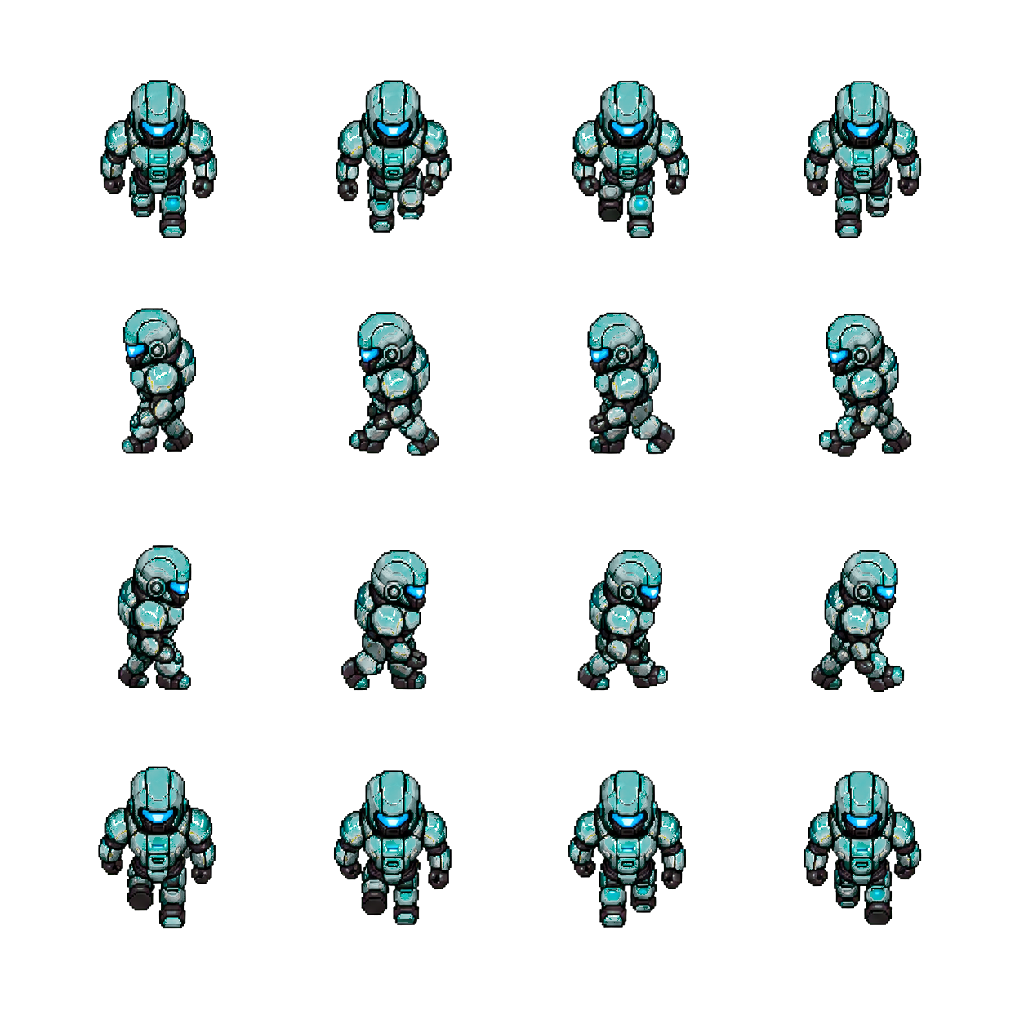
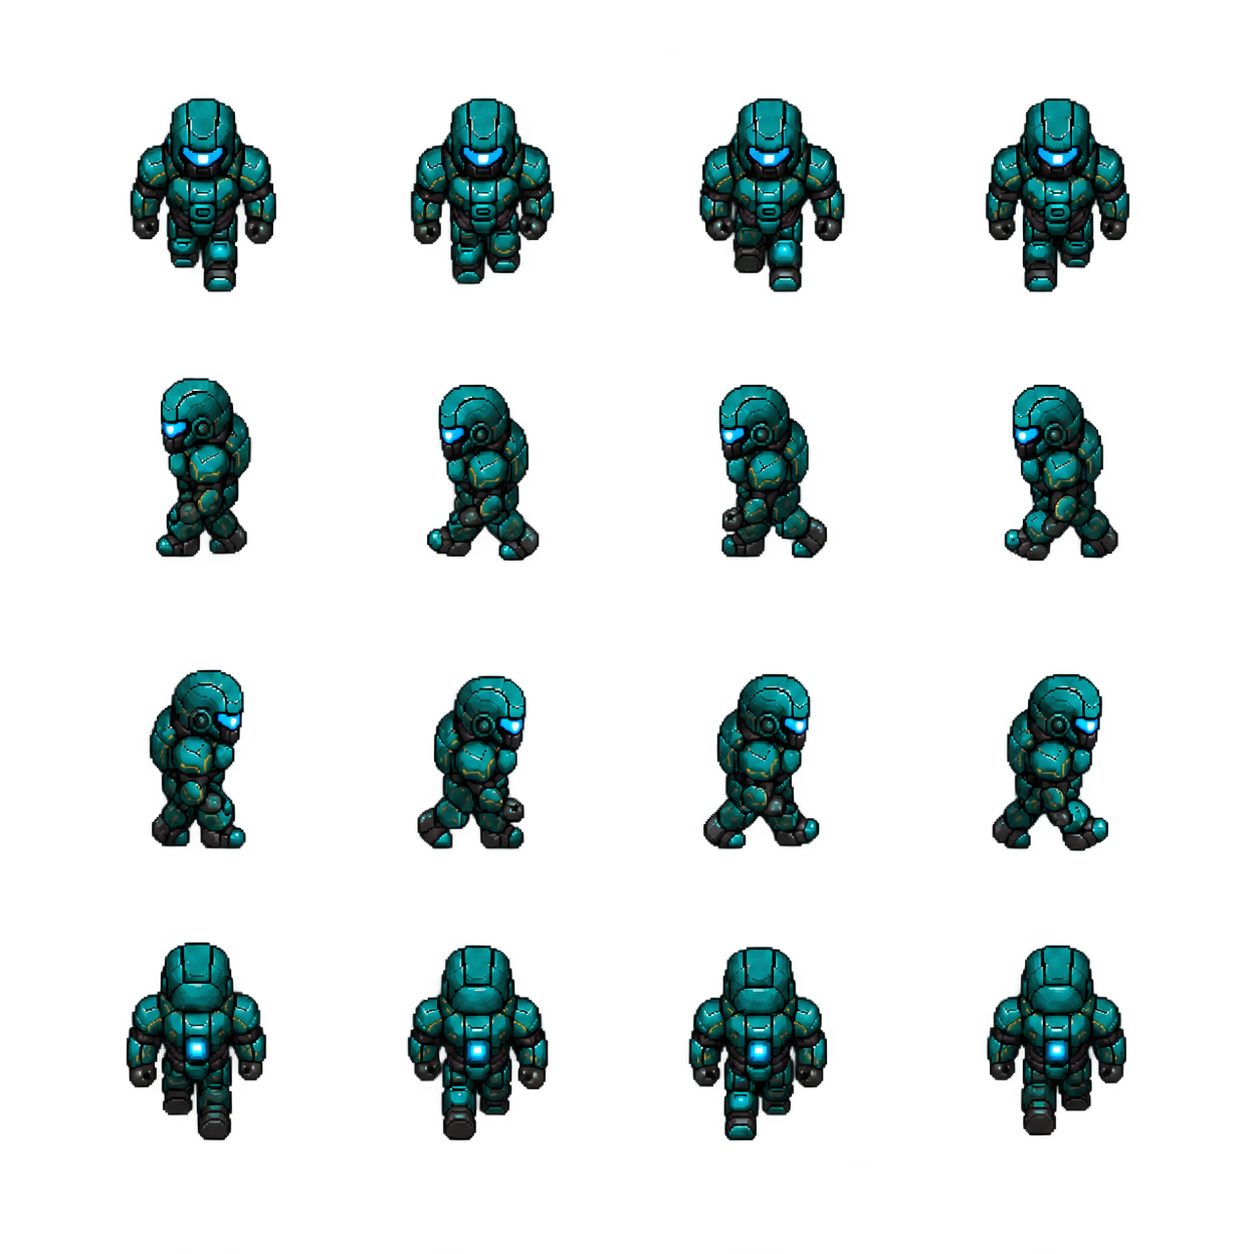
feat: add directional idle animations

diff --git a/frontend/src/features/game/GameCanvas.jsx b/frontend/src/features/game/GameCanvas.jsx
@@ -5,6 +5,10 @@ import playerMeleeAttackSpriteUrl from '../../assets/game/player/player-melee-at
 import playerRangedAttackSpriteUrl from '../../assets/game/player/player-ranged-attack.png';
 import walkingRobotSpriteUrl from '../../assets/game/enemies/walking-robot.png';
 import shootingRobotSpriteUrl from '../../assets/game/enemies/shooting-robot.png';
+import tankRobotIdleSpriteUrl from '../../assets/game/enemies/tank-robot-idle.png';
+import playerIdleSpriteUrl from '../../assets/game/player/player-idle.png';
+import walkingRobotIdleSpriteUrl from '../../assets/game/enemies/walking-robot-idle.png';
+import shootingRobotIdleSpriteUrl from '../../assets/game/enemies/shooting-robot-idle.png';
 
 const CANVAS_WIDTH = 800;
 const MIN_CANVAS_HEIGHT = 450;
@@ -19,6 +23,10 @@ const STATIC_MAP_ENTITY_TYPES = new Set([
 const PLAYER_SPRITE_CELL_SIZE = 256;
 const PLAYER_WALK_FRAME_COUNT = 4;
 const PLAYER_WALK_FRAME_DURATION_MS = 125;
+const PLAYER_IDLE_FRAME_COUNT = 4;
+const PLAYER_IDLE_FRAME_DURATION_MS = 240;
+const playerIdleSprite = new Image();
+playerIdleSprite.src = playerIdleSpriteUrl;
 const PLAYER_ATTACK_FRAME_COUNT = 6;
 const PLAYER_MELEE_FRAME_DURATION_MS = 60;
 const PLAYER_RANGED_FRAME_DURATION_MS = 50;
@@ -32,10 +40,86 @@ const WALKING_ROBOT_FRAME_COUNT = 4;
 const WALKING_ROBOT_FRAME_DURATION_MS = 140;
 const walkingRobotSprite = new Image();
 walkingRobotSprite.src = walkingRobotSpriteUrl;
+const WALKING_ROBOT_IDLE_FRAME_DURATION_MS = 260;
+const walkingRobotIdleSprite = new Image();
+walkingRobotIdleSprite.src = walkingRobotIdleSpriteUrl;
 const SHOOTING_ROBOT_FRAME_COUNT = 4;
 const SHOOTING_ROBOT_FRAME_DURATION_MS = 140;
 const shootingRobotSprite = new Image();
 shootingRobotSprite.src = shootingRobotSpriteUrl;
+const SHOOTING_ROBOT_IDLE_FRAME_DURATION_MS = 260;
+const shootingRobotIdleSprite = new Image();
+shootingRobotIdleSprite.src = shootingRobotIdleSpriteUrl;
+const TANK_ROBOT_FRAME_COUNT = 4;
+const TANK_ROBOT_FRAME_DURATION_MS = 220;
+const TANK_ROBOT_SOURCE_ROWS = Object.freeze([
+    {y: 0, height: 308},
+    {y: 308, height: 313},
+    {y: 621, height: 308},
+    {y: 929, height: 349},
+]);
+const TANK_ROBOT_SOURCE_COLUMNS = Object.freeze([
+    { x: 0, width: 320 },
+    { x: 320, width: 308 },
+    { x: 628, width: 299 },
+    { x: 927, width: 303 },
+]);
+const SOURCE_GRID_1254_COLUMNS = Object.freeze([
+    {x: 0, width: 314},
+    {x: 314, width: 313},
+    {x: 627, width: 314},
+    {x: 941, width: 313},
+]);
+const SOURCE_GRID_1254_ROWS = Object.freeze([
+    {y: 0, height: 314},
+    {y: 314, height: 313},
+    {y: 627, height: 314},
+    {y: 941, height: 313},
+]);
+const WALKING_ROBOT_IDLE_COLUMNS = Object.freeze([
+    {x: 0, width: 315},
+    {x: 315, width: 316},
+    {x: 631, width: 315},
+    {x: 946, width: 315},
+]);
+const WALKING_ROBOT_IDLE_ROWS = Object.freeze([
+    {y: 0, height: 312},
+    {y: 312, height: 312},
+    {y: 624, height: 311},
+    {y: 935, height: 312},
+]);
+const SHOOTING_ROBOT_IDLE_COLUMNS = Object.freeze([
+    {x: 0, width: 309},
+    {x: 309, width: 309},
+    {x: 618, width: 309},
+    {x: 927, width: 309},
+]);
+const SHOOTING_ROBOT_IDLE_ROWS = Object.freeze([
+    {y: 0, height: 318},
+    {y: 318, height: 319},
+    {y: 637, height: 318},
+    {y: 955, height: 318},
+]);
+const PLAYER_IDLE_ANCHOR_X = Object.freeze([
+    [0.6566, 0.5694, 0.4580, 0.3677],
+    [0.6645, 0.5781, 0.4773, 0.3883],
+    [0.6359, 0.5455, 0.4469, 0.3471],
+    [0.6565, 0.5696, 0.4583, 0.3674],
+]);
+const WALKING_ROBOT_IDLE_ANCHOR_X = Object.freeze([
+    [0.6059, 0.5500, 0.4853, 0.3886],
+    [0.6114, 0.5658, 0.4994, 0.4390],
+    [0.5802, 0.5498, 0.4711, 0.4088],
+    [0.6024, 0.5529, 0.4590, 0.3916],
+]);
+const SHOOTING_ROBOT_IDLE_ANCHOR_X = Object.freeze([
+    [0.5524, 0.5436, 0.5287, 0.4513],
+    [0.5501, 0.5381, 0.5253, 0.4749],
+    [0.5796, 0.5552, 0.5272, 0.4758],
+    [0.5724, 0.5551, 0.5190, 0.4672],
+]);
+const tankRobotIdleSprite = new Image();
+tankRobotIdleSprite.src = tankRobotIdleSpriteUrl;
 
 function getInterpolatedPosition(track, now) {
     if (track.duration === 0) {
@@ -254,6 +338,41 @@ function getPlayerDirectionRow(entity, fallbackRow = 0) {
     return fallbackRow;
 }
 
+function getDirectionRowToward(
+    sourcePosition,
+    targetPosition,
+    fallbackRow = 0
+) {
+    if (!sourcePosition || !targetPosition)
+        return fallbackRow;
+    const deltaX = targetPosition.x - sourcePosition.x;
+    const deltaY = targetPosition.y - sourcePosition.y;
+    if (deltaX === 0 && deltaY === 0)
+        return fallbackRow;
+    if (Math.abs(deltaX) > Math.abs(deltaY))
+        return deltaX < 0 ? 1 : 2;
+    return deltaY < 0 ? 3 : 0;
+}
+
+function getSpriteSource({
+    columns,
+    rows,
+    frame,
+    directionRow,
+    anchorXs = null,
+}) {
+    const column = columns[frame] ?? columns[0];
+    const row = rows[directionRow] ?? rows[0];
+    const anchorX = anchorXs?.[directionRow]?.[frame] ?? 0.5;
+    return {
+        x: column.x,
+        y: row.y,
+        width: column.width,
+        height: row.height,
+        anchorX,
+    };
+}
+
 function getPlayerAttackDuration(action) {
     if (action === PLAYER_ACTION.MELEE) {
         return (
@@ -344,35 +463,32 @@ function drawPlayerWalkSprite({
     now,
     directionRow = 0,
 }) {
-    if (
-        !playerWalkSprite.complete ||
-        playerWalkSprite.naturalWidth === 0
-    ) {
+    const isMoving = entity.velX !== 0 || entity.velY !== 0;
+    const sprite = isMoving ? playerWalkSprite : playerIdleSprite;
+    if (!sprite.complete || sprite.naturalWidth === 0)
         return false;
-    }
+    const frameDuration = isMoving ? PLAYER_WALK_FRAME_DURATION_MS : PLAYER_IDLE_FRAME_DURATION_MS;
+    const frameCount = isMoving ? PLAYER_WALK_FRAME_COUNT : PLAYER_IDLE_FRAME_COUNT;
+    const frame = Math.floor(now / frameDuration) % frameCount;
 
-    const isMoving =
-        entity.velX !== 0 ||
-        entity.velY !== 0;
-
-    const frame = isMoving
-        ? Math.floor(now / PLAYER_WALK_FRAME_DURATION_MS) %
-            PLAYER_WALK_FRAME_COUNT
-        : 0;
-
-    const sourceX = frame * PLAYER_SPRITE_CELL_SIZE;
-    const sourceY = directionRow * PLAYER_SPRITE_CELL_SIZE;
+    const source = getSpriteSource({
+        columns: SOURCE_GRID_1254_COLUMNS,
+        rows: SOURCE_GRID_1254_ROWS,
+        frame,
+        directionRow,
+        anchorXs: isMoving ? null : PLAYER_IDLE_ANCHOR_X,
+    });
     const spriteSize = tilePixels * 1.8;
     const centerX = screen.x + tilePixels / 2;
     const centerY = screen.y + tilePixels / 2;
 
     context.drawImage(
-        playerWalkSprite,
-        sourceX,
-        sourceY,
-        PLAYER_SPRITE_CELL_SIZE,
-        PLAYER_SPRITE_CELL_SIZE,
-        centerX - spriteSize / 2,
+        sprite,
+        source.x,
+        source.y,
+        source.width,
+        source.height,
+        centerX - source.anchorX * spriteSize,
         centerY - spriteSize / 2,
         spriteSize,
         spriteSize
@@ -389,27 +505,32 @@ function drawWalkingRobotSprite({
     now,
     directionRow,
 }) {
-    if (!walkingRobotSprite.complete || walkingRobotSprite.naturalWidth === 0)
-        return false;
     const isMoving = entity.velX !== 0 || entity.velY !== 0;
-    const frame = isMoving ? Math.floor(
-        now / WALKING_ROBOT_FRAME_DURATION_MS
-    ) % WALKING_ROBOT_FRAME_COUNT : 0;
-    const cellWidth = walkingRobotSprite.naturalWidth / WALKING_ROBOT_FRAME_COUNT;
-    const cellHeight = walkingRobotSprite.naturalHeight / 4;
-    const sourceX = frame * cellWidth;
-    const sourceY = directionRow * cellHeight;
+    const sprite = isMoving ? walkingRobotSprite : walkingRobotIdleSprite;
+    if (!sprite.complete || sprite.naturalWidth === 0)
+        return false;
+    const frameDuration = isMoving ? WALKING_ROBOT_FRAME_DURATION_MS : WALKING_ROBOT_IDLE_FRAME_DURATION_MS;
+    const frame = Math.floor(
+        now / frameDuration
+    ) % WALKING_ROBOT_FRAME_COUNT;
+    const source = getSpriteSource({
+        columns: isMoving ? SOURCE_GRID_1254_COLUMNS : WALKING_ROBOT_IDLE_COLUMNS,
+        rows: isMoving ? SOURCE_GRID_1254_ROWS : WALKING_ROBOT_IDLE_ROWS,
+        frame,
+        directionRow,
+        anchorXs: isMoving ? null : WALKING_ROBOT_IDLE_ANCHOR_X,
+    });
     const spriteSize = tilePixels * 1.7;
     const centerX = screen.x + tilePixels / 2;
     const centerY = screen.y + tilePixels / 2;
 
     context.drawImage(
-        walkingRobotSprite,
-        sourceX,
-        sourceY,
-        cellWidth,
-        cellHeight,
-        centerX - spriteSize / 2,
+        sprite,
+        source.x,
+        source.y,
+        source.width,
+        source.height,
+        centerX - source.anchorX * spriteSize,
         centerY - spriteSize / 2,
         spriteSize,
         spriteSize,
@@ -425,29 +546,67 @@ function drawShootingRobotSprite({
     now,
     directionRow,
 }) {
-    if (!shootingRobotSprite.complete || shootingRobotSprite.naturalWidth === 0)
-        return false;
     const isMoving = entity.velX !== 0 || entity.velY !== 0;
-    const frame = isMoving ? Math.floor(
-        now / SHOOTING_ROBOT_FRAME_DURATION_MS
-    ) % SHOOTING_ROBOT_FRAME_COUNT : 0;
-    const cellWidth = shootingRobotSprite.naturalWidth / SHOOTING_ROBOT_FRAME_COUNT;
-    const cellHeight = shootingRobotSprite.naturalHeight / 4;
-    const sourceX = frame * cellWidth;
-    const sourceY = directionRow * cellHeight;
+    const sprite = isMoving ? shootingRobotSprite : shootingRobotIdleSprite;
+    if (!sprite.complete || sprite.naturalWidth === 0)
+        return false;
+    const frameDuration = isMoving ? SHOOTING_ROBOT_FRAME_DURATION_MS : SHOOTING_ROBOT_IDLE_FRAME_DURATION_MS;
+    const frame = Math.floor(now / frameDuration) % SHOOTING_ROBOT_FRAME_COUNT;
+    const source = getSpriteSource({
+        columns: isMoving ? SOURCE_GRID_1254_COLUMNS : SHOOTING_ROBOT_IDLE_COLUMNS,
+        rows: isMoving ? SOURCE_GRID_1254_ROWS : SHOOTING_ROBOT_IDLE_ROWS,
+        frame,
+        directionRow,
+        anchorXs: isMoving ? null : SHOOTING_ROBOT_IDLE_ANCHOR_X,
+    });
     const spriteSize = tilePixels * 1.6;
     const centerX = screen.x + tilePixels / 2;
     const centerY = screen.y + tilePixels / 2;
     context.drawImage(
-        shootingRobotSprite,
-        sourceX,
-        sourceY,
-        cellWidth,
-        cellHeight,
-        centerX - spriteSize / 2,
+        sprite,
+        source.x,
+        source.y,
+        source.width,
+        source.height,
+        centerX - source.anchorX * spriteSize,
         centerY - spriteSize / 2,
         spriteSize,
         spriteSize,
+    );
+    return true;
+}
+
+function drawTankRobotSprite({
+    context,
+    screen,
+    tilePixels,
+    now,
+    directionRow,
+}) {
+    if (!tankRobotIdleSprite.complete || tankRobotIdleSprite.naturalWidth === 0)
+        return false;
+    const frame = Math.floor(
+        now / TANK_ROBOT_FRAME_DURATION_MS
+    ) % TANK_ROBOT_FRAME_COUNT;
+    const sourceColumn = TANK_ROBOT_SOURCE_COLUMNS[frame] ?? TANK_ROBOT_SOURCE_COLUMNS[0];
+    const sourceRow = TANK_ROBOT_SOURCE_ROWS[directionRow] ?? TANK_ROBOT_SOURCE_ROWS[0];
+    const sourceX = sourceColumn.x;
+    const sourceY = sourceRow.y;
+    const sourceWidth = sourceColumn.width;
+    const sourceHeight = sourceRow.height;
+    const spriteSize = tilePixels * 2.1;
+    const centerX = screen.x + tilePixels / 2;
+    const centerY = screen.y + tilePixels / 2;
+    context.drawImage(
+        tankRobotIdleSprite,
+        sourceX,
+        sourceY,
+        sourceWidth,
+        sourceHeight,
+        centerX - spriteSize / 2,
+        centerY - spriteSize / 2,
+        spriteSize,
+        spriteSize
     );
     return true;
 }
@@ -584,6 +743,17 @@ function drawEntity({
             break;
 
         case ENTITY_TYPE.TANK_ROBOT:
+            if (
+                drawTankRobotSprite({
+                    context,
+                    screen,
+                    tilePixels,
+                    now,
+                    directionRow
+                })
+            ) {
+                break;
+            }
             context.fillStyle = '#eab308';
             context.strokeStyle = '#fef08a';
             context.lineWidth = 3;
@@ -967,17 +1137,24 @@ export function GameCanvas({
                     playerAttackRef.current.delete(String(playerId));
                     attack = null;
                 }
+                const position = getInterpolatedPosition(track, now);
+                const renderDirectionRow =
+                    getEntityType(track.entity) ===
+                    ENTITY_TYPE.TANK_ROBOT
+                        ? getDirectionRowToward(
+                            position,
+                            focusPosition,
+                            track.directionRow
+                        )
+                        : track.directionRow;
                 drawEntity({
                     context,
                     entity: track.entity,
-                    position: getInterpolatedPosition(
-                        track,
-                        now
-                    ),
+                    position,
                     camera,
                     now,
                     attack,
-                    directionRow: track.directionRow,
+                    directionRow: renderDirectionRow,
                 });
             });
             animationFrameId =
